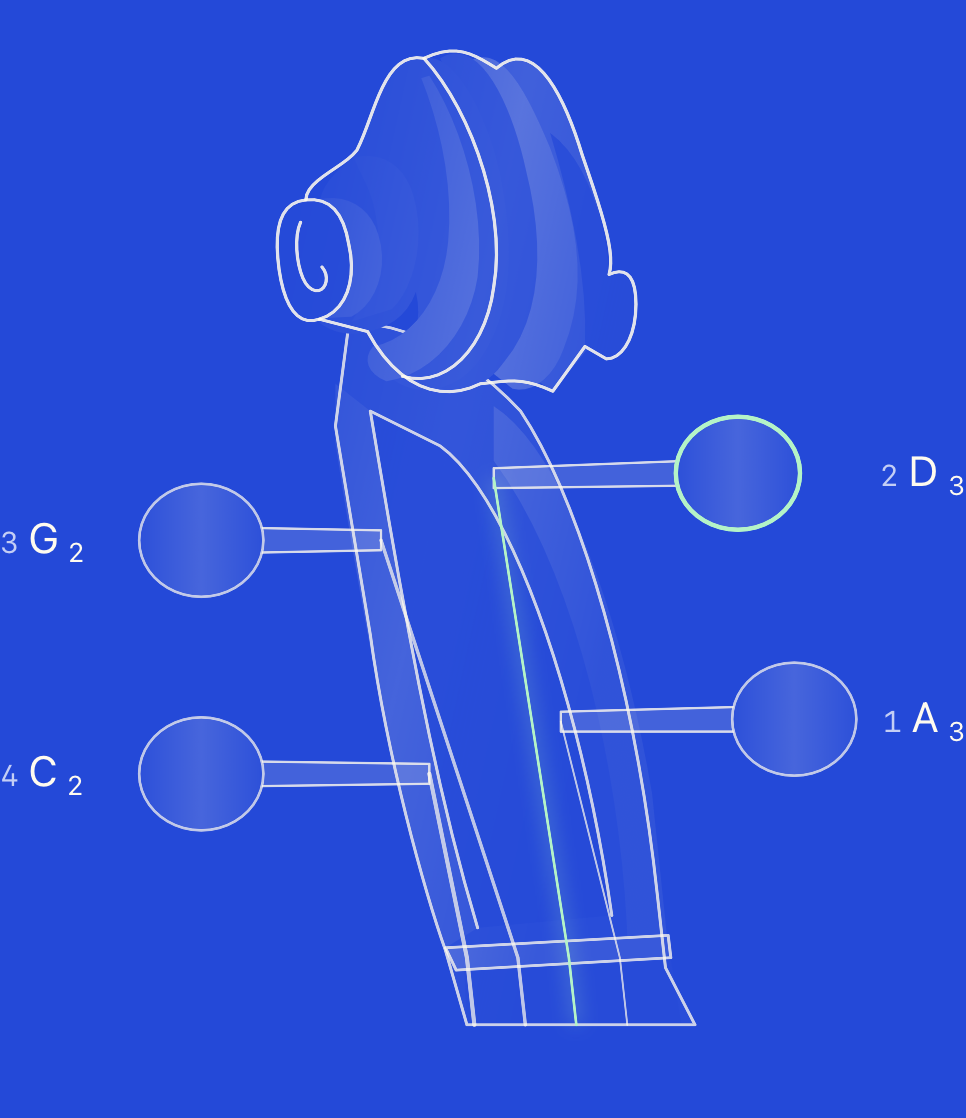
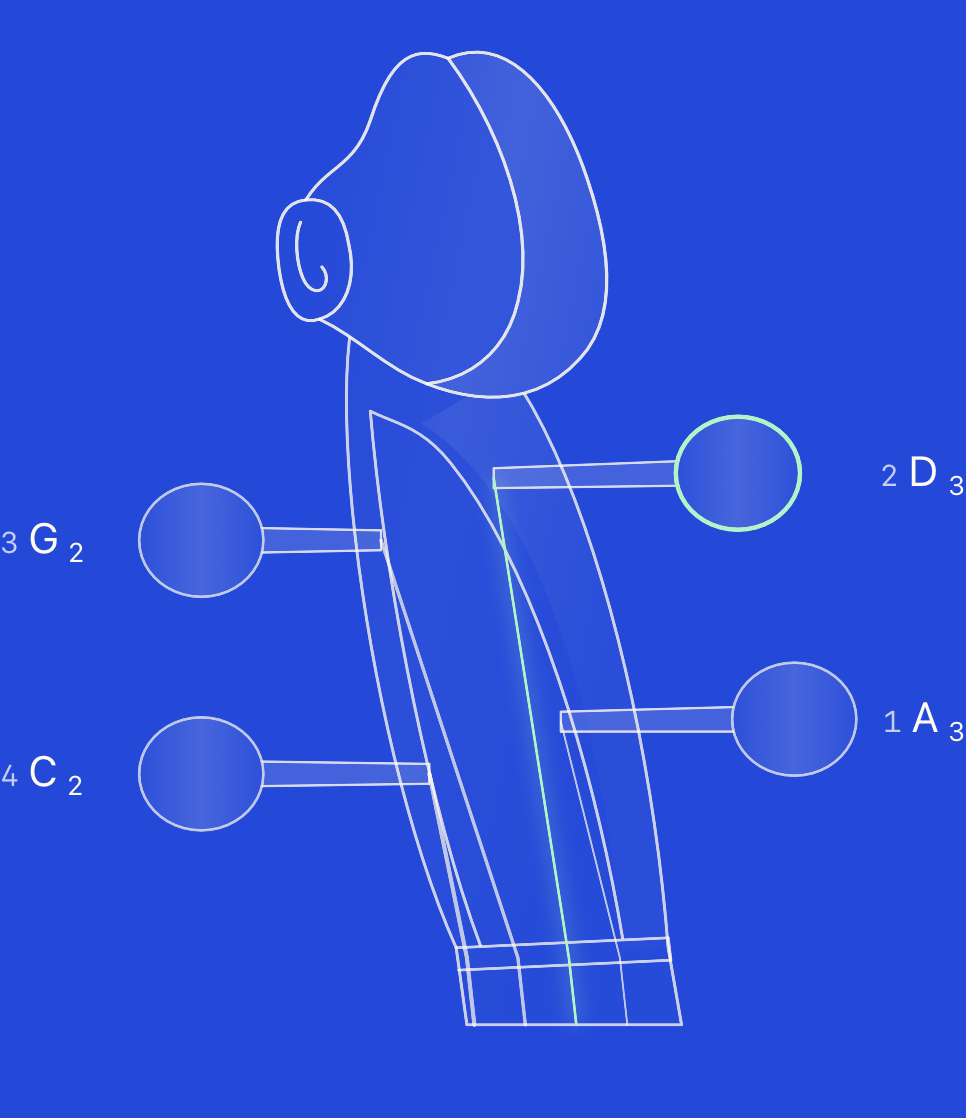
Refine bass silhouette and smooth bowed headstock joins

diff --git a/TheTuner/BowedHeadstockArtwork.swift b/TheTuner/BowedHeadstockArtwork.swift
@@ -32,40 +32,25 @@ enum BowedHeadstockArtwork {
         return path
     }
 
+    // Shared endpoints and continuous curves keep the scroll, heel and pegbox
+    // connected. Shaded faces use those same boundaries rather than old carved slices.
     static let box: [Surface] = [
-        // Rear wall, carved heel and the short fingerboard emerging below the nut.
-        Surface("M 150 118 C 170 116 195 131 214 153 C 237 190 257 267 265 348 L 268 377 L 279 400 L 194 400 L 186 370 C 178 346 164 291 158 243 L 145 159 Z", 0.07),
-        Surface("M 204 151 C 230 169 252 237 263 307 L 269 369 L 254 370 C 252 301 235 218 204 173 Z", 0.19),
-        // Open trough. The strings and axles remain separate, interactive paths.
-        Surface("M 158 153 L 184 167 C 211 188 237 272 248 356 L 198 361 C 181 301 168 224 158 153 Z", 0.025),
-        Surface("M 145 142 L 158 153 C 170 230 181 300 198 361 L 186 369 C 168 314 155 235 145 166 Z", 0.15),
-        Surface("M 186 369 L 269 364 L 270 373 L 190 378 Z", 0.30),
-        Surface("M 193 378 L 270 374 L 274 400 L 194 400 Z", 0.04)
+        Surface("M 151 118 C 143 170 161 299 190 369 L 194 400 L 274 400 L 269 369 C 263 284 241 184 210 137 Z", 0.035),
+        Surface("M 210 137 C 241 184 263 284 269 369 L 252 370 C 245 277 221 187 177 158 Z", 0.10)
     ]
     static let scroll: [Surface] = [
-        // Far cheek and the back ridge lean away from the player.
-        Surface("M 205 15 C 219 2 230 25 237 50 C 246 78 249 105 242 124 L 226 145 L 207 131 C 218 113 219 91 214 67 C 211 42 208 25 205 15 Z", 0.13),
-        Surface("M 225 41 C 239 52 246 78 247 98 C 253 95 257 98 257 110 C 257 123 252 132 246 132 L 238 127 C 239 100 233 70 225 41 Z", 0.035),
-        Surface("M 195 12 C 207 5 216 24 225 47 C 236 78 239 104 230 128 C 226 140 218 146 211 144 L 197 132 C 211 103 210 63 195 31 Z", 0.24),
-        Surface("M 184 11 C 199 1 211 31 216 56 C 223 86 222 115 208 133 C 201 144 190 148 179 143 L 175 132 C 193 125 200 104 201 84 C 201 54 193 30 184 11 Z", 0.085),
-        // Front carved cheek: the rolled termination projects from a tall, sculpted face.
-        Surface("M 178 11 C 163 8 160 33 153 48 C 149 55 141 58 139 69 C 133 74 130 84 131 99 C 131 115 144 125 157 121 C 166 119 172 114 175 105 C 178 119 173 132 163 137 C 173 149 190 146 199 132 C 212 112 211 85 207 61 C 203 37 190 8 178 11 Z", 0.095),
-        Surface("M 177 19 C 184 38 189 62 187 85 C 185 107 174 124 159 127 C 155 132 157 138 164 141 C 182 138 195 120 198 99 C 201 70 192 38 180 18 Z", 0.22),
-        Surface("M 152 51 C 163 48 171 55 174 66 C 179 84 174 104 166 112 L 151 117 C 159 104 163 89 160 74 C 158 62 154 58 152 51 Z", 0.13),
-        // Cylindrical eye, front ellipse and recessed carved curl.
-        Surface("M 138 68 C 149 65 158 71 161 82 C 165 96 160 110 151 115 L 134 116 C 144 107 148 93 144 80 Z", 0.25),
+        Surface("M 134 68 C 142 54 152 55 158 36 C 166 9 175 6 187 11 C 210 0 229 27 239 60 C 248 89 250 116 236 132 C 220 151 198 150 179 142 C 164 136 153 123 139 116 Z", 0.075),
+        Surface("M 187 11 C 207 40 220 80 213 109 C 209 128 196 140 179 142 C 198 150 220 151 236 132 C 250 116 248 89 239 60 C 229 27 210 0 187 11 Z", 0.14),
         Surface("M 134 68 C 124 69 122 80 124 96 C 126 111 131 119 139 116 C 149 113 153 100 150 86 C 148 73 143 67 134 68 Z", 0.035)
     ]
-    // Only silhouette and construction edges are inked. The carved faces below are
-    // shading, not a stack of outlined slices competing with the live strings.
     static let boxEdges: [Path] = [
-        contour("M 150 118 C 170 116 195 131 214 153 C 237 190 257 267 265 348 L 268 377 L 279 400 L 194 400 L 186 370 C 178 346 164 291 158 243 L 145 159 Z"),
-        contour("M 158 153 L 184 167 C 211 188 237 272 248 356 M 158 153 C 170 230 181 300 198 361"),
-        contour("M 186 369 L 269 364 L 270 373 L 190 378 Z")
+        contour("M 151 118 C 143 170 161 299 190 369 L 194 400 L 274 400 L 269 369 C 263 284 241 184 210 137"),
+        contour("M 158 153 C 167 158 177 159 188 174 C 220 217 242 300 252 365 M 158 153 C 163 218 179 310 199 368"),
+        contour("M 190 369 L 269 365 L 270 374 L 191 378")
     ]
     static let scrollEdges: [Path] = [
-        contour("M 134 68 C 134 60 148 55 153 48 C 160 33 163 8 178 11 C 190 5 196 9 205 15 C 219 2 230 25 237 50 C 246 78 249 90 247 98 C 253 95 257 98 257 110 C 257 123 252 132 246 132 L 238 127 L 226 145 C 214 139 209 141 199 142 C 184 150 168 143 157 121 L 139 116"),
-        contour("M 178 11 C 195 31 209 72 204 103 C 201 128 186 144 170 139"),
+        contour("M 134 68 C 142 54 152 55 158 36 C 166 9 175 6 187 11 C 210 0 229 27 239 60 C 248 89 250 116 236 132 C 220 151 198 150 179 142 C 164 136 153 123 139 116"),
+        contour("M 187 11 C 207 40 220 80 213 109 C 209 128 196 140 179 142"),
         contour("M 134 68 C 124 69 122 80 124 96 C 126 111 131 119 139 116 C 149 113 153 100 150 86 C 148 73 143 67 134 68 Z"),
         contour("M 132 77 C 129 84 131 99 135 103 C 140 108 144 100 140 95")
     ]

diff --git a/TheTuner/InstrumentArtwork.swift b/TheTuner/InstrumentArtwork.swift
@@ -28,7 +28,8 @@ struct InstrumentHeadLayout {
         }
         if shortDrone && i == 0 { return point(0.39, 0.94) }
         if inlineBass {
-            return point(0.53, 0.18 + CGFloat(count - 1 - i) * 0.58 / CGFloat(max(1, count - 1)))
+            let row = CGFloat(count - 1 - i) / CGFloat(max(1, count - 1))
+            return point(0.56 - row * 0.15, 0.18 + row * 0.58)
         }
         let side = left(i)
         let row: Int
@@ -83,10 +84,15 @@ struct InstrumentHeadDrawing: View {
                 BowedHeadstockArtwork.draw(in: &carved, layout: layout, style: style)
             } else {
                 if layout.inlineBass {
-                    outline.move(to: p(0.43, 0.72))
-                    outline.addCurve(to: p(0.50, 0.07), control1: p(0.34, 0.44), control2: p(0.42, 0.06))
-                    outline.addCurve(to: p(0.66, 0.23), control1: p(0.68, 0.02), control2: p(0.72, 0.14))
-                    outline.addCurve(to: p(0.59, 0.76), control1: p(0.55, 0.38), control2: p(0.66, 0.56))
+                    // Slanted tuner rail, rounded crown and scooped treble shoulder.
+                    outline.move(to: p(0.41, layout.nutY))
+                    outline.addCurve(to: p(0.32, 0.83), control1: p(0.41, 0.85), control2: p(0.30, 0.88))
+                    outline.addLine(to: p(0.47, 0.14))
+                    outline.addCurve(to: p(0.60, 0.045), control1: p(0.49, 0.065), control2: p(0.53, 0.025))
+                    outline.addCurve(to: p(0.70, 0.19), control1: p(0.69, 0.055), control2: p(0.75, 0.13))
+                    outline.addCurve(to: p(0.62, 0.35), control1: p(0.67, 0.24), control2: p(0.61, 0.26))
+                    outline.addCurve(to: p(0.69, 0.70), control1: p(0.62, 0.48), control2: p(0.71, 0.60))
+                    outline.addCurve(to: p(0.59, layout.nutY), control1: p(0.68, 0.79), control2: p(0.59, 0.80))
                 } else {
                     outline.move(to: p(0.29, 0.13))
                     switch instrument {
@@ -125,7 +131,9 @@ struct InstrumentHeadDrawing: View {
                     let drone = layout.shortDrone && i == 0
                     let side = layout.inlineBass || layout.left(i)
                     let handleX: CGFloat = drone ? 0.29 : side ? (instrument.bowed ? 0.29 : layout.inlineBass ? 0.34 : 0.28) : (instrument.bowed ? 0.76 : 0.72)
-                    let handle = instrument.bowed ? layout.target(i) : CGPoint(x: p(handleX, 0).x, y: post.y)
+                    let handle = instrument.bowed ? layout.target(i) : layout.inlineBass
+                        ? CGPoint(x: post.x - 82 * layout.artScale, y: post.y - 15 * layout.artScale)
+                        : CGPoint(x: p(handleX, 0).x, y: post.y)
                     if !instrument.bowed {
                         var axle = Path(); axle.move(to: post); axle.addLine(to: handle); stroke(axle, style.muted, 1)
                     }
@@ -152,11 +160,13 @@ struct InstrumentHeadDrawing: View {
                     if instrument == .bass {
                         var clover = Path()
                         func c(_ x: CGFloat, _ y: CGFloat) -> CGPoint { CGPoint(x: handle.x + x * layout.artScale, y: handle.y + y * layout.artScale) }
-                        clover.move(to: c(0, -12))
-                        clover.addCurve(to: c(-13, -3), control1: c(-12, -21), control2: c(-24, -8))
-                        clover.addCurve(to: c(-3, 13), control1: c(-25, 8), control2: c(-13, 24))
-                        clover.addCurve(to: c(13, 3), control1: c(8, 26), control2: c(25, 13))
-                        clover.addCurve(to: c(0, -12), control1: c(25, -9), control2: c(12, -23))
+                        // Three rounded lobes with a short stem, rather than a four-petal flower.
+                        clover.move(to: c(16, -5))
+                        clover.addCurve(to: c(7, -17), control1: c(7, -6), control2: c(11, -13))
+                        clover.addCurve(to: c(-12, -11), control1: c(-2, -30), control2: c(-20, -24))
+                        clover.addCurve(to: c(-17, 12), control1: c(-33, -15), control2: c(-35, 8))
+                        clover.addCurve(to: c(7, 17), control1: c(-18, 31), control2: c(2, 32))
+                        clover.addCurve(to: c(16, 5), control1: c(11, 13), control2: c(7, 6))
                         clover.closeSubpath()
                         context.fill(clover, with: .color(style.face)); stroke(clover, style.ink.opacity(0.9), 1)
 

diff --git a/Verification/headstock-reference/minimal-audit.md b/Verification/headstock-reference/minimal-audit.md
@@ -16,3 +16,8 @@ All eight existing native screenshots were inspected at artwork scale before edi
 No target positions, tap regions, outer dimensions or detection behavior change. Selected bowed pegs use their existing contour for the accent instead of an additional concentric ring. Completion checkmarks remain.
 
 Validation: a fresh simulator build passed all eight instrument target/lock/unlock checks and exported all eight reference screens (2 tests, 0 failures). Each exported artwork was visually inspected after the changes. Release device build passed. An initial incremental run executed stale test code; a separate derived-data directory resolved that mismatch without changing assertions.
+
+## Contour correction
+The bass now follows the reference's diagonal tuner rail, rounded crown and scooped shoulder; posts follow that rail so strings fall naturally toward the nut. Clover keys use three lobes and a stem rather than four flower petals. Bowed instruments now share continuous boundaries between shaded faces and inked contours, removing the old carved-slice seams. The scroll-to-pegbox join was checked again after correcting a small left-side gap.
+
+Validation: all instrument target checks, extended bass targets and reference captures passed (3 tests). Final join-only correction passed reference captures again. Final violin and bass artwork were inspected from XCTest screenshots. Release build passed.
